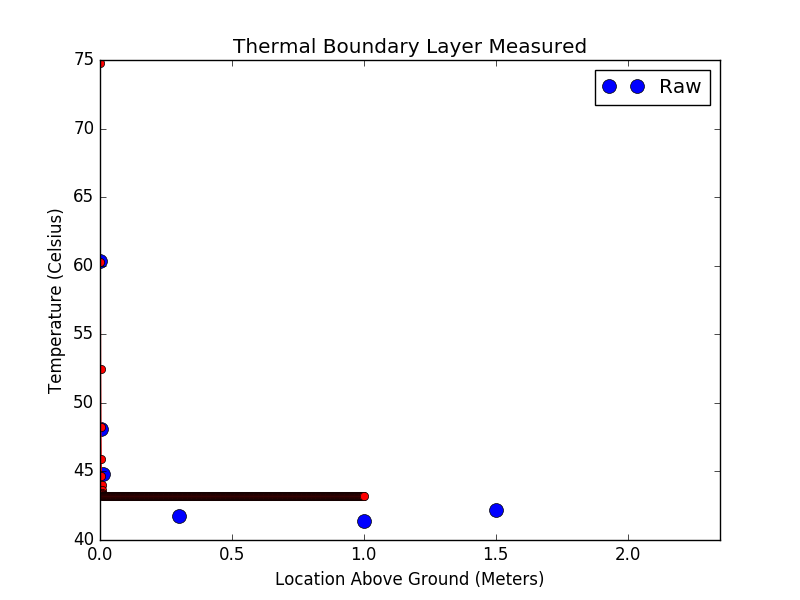
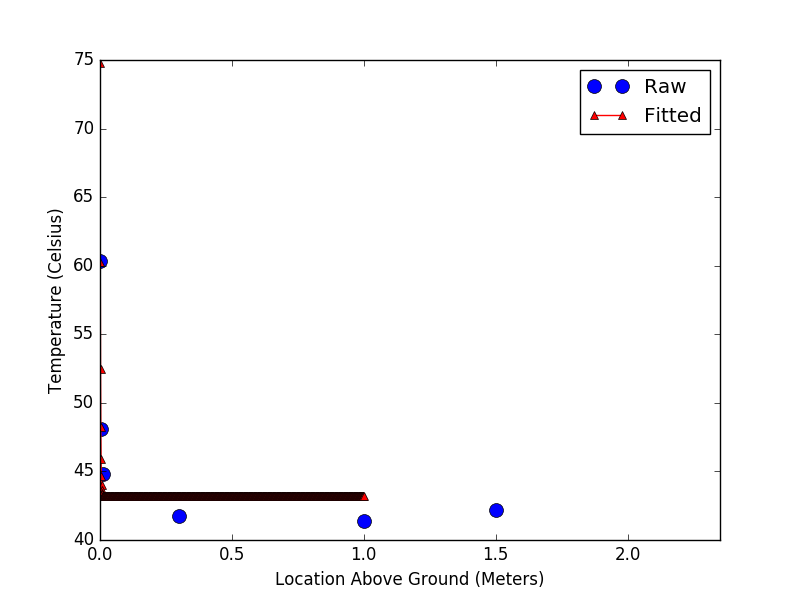
updating

Changed region(s): [[0.2812, 0.06, 0.9062, 0.24], [0.4375, 0.81, 0.4688, 0.84], [0.125, 0.78, 0.1562, 0.81]]

diff --git a/disputatio/routines/thermal_boundary_layer/zoom.py b/disputatio/routines/thermal_boundary_layer/zoom.py
@@ -56,12 +56,12 @@ def plot_raw(x,t):
     #print log_lst
     plt.subplot(1, 1, 1)
     plt.plot(x,t, 'ko',color='blue',label='Raw',markersize=10)
-    plt.title('Thermal Boundary Layer Measured')
+    #plt.title('Thermal Boundary Layer Measured')
     plt.xlabel('Location Above Ground (Meters)')
     plt.ylabel('Temperature (Celsius)')
-    plt.legend()
 
-    plt.xlim((-.05,.35))
+    #plt.xlim((-.05,.35))
+    plt.xlim((0.0,.35))
     plt.ylim((40,75))
         
     #
@@ -70,7 +70,8 @@ def plot_raw(x,t):
     # http://stackoverflow.com/questions/3433486/how-to-do-exponential-and-logarithmic-curve-fitting-in-python-i-found-only-poly
     #
     # plot exponential
-    plt.plot(xx,e(xx,popt[0],popt[1],popt[2]), 'ko-', color='red',label='exponential')
+    plt.plot(xx,e(xx,popt[0],popt[1],popt[2]), 'k^-', color='red',label='Fitted')
+    plt.legend()
 
     # plot polynomial:
     #plt.plot(xx,pp(xx), 'ko-',color='red',label='fit')
